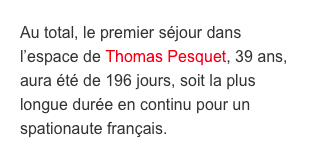
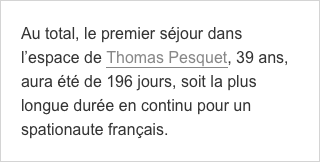
[COMP] Doc design : select, text field, link, radio button, pagination et margin

diff --git a/src/components/paginations/selects.vue b/src/components/paginations/selects.vue
@@ -1,0 +1,20 @@
+<template>
+  <selects class="su-selects" :class="[typeClass]">
+    <slot></slot>
+  </selects>
+</template>
+
+<script>
+export default {
+  props: {
+    typeClass: 'basic'
+  }
+};
+</script>
+
+<style>
+/**
+Import du SASS selects Sipa UI
+**/
+@import selects.scss
+</style>

diff --git a/src/components/paginations/main.scss b/src/components/paginations/main.scss
@@ -1,0 +1,6 @@
+/*
+    Styles du composant selects de SipaUI
+    Utilise les variables à la fois globales et du composant
+*/
+@import "variables";
+

diff --git a/src/components/paginations/_variables.scss b/src/components/paginations/_variables.scss
@@ -1,0 +1,5 @@
+/*
+    Variables liés au composant selects
+    ex:
+    $border-button-premium: 3px !default;
+*/

diff --git a/src/components/paginations/_theme-vv.scss b/src/components/paginations/_theme-vv.scss
@@ -1,0 +1,5 @@
+/*
+    Variables liés au theme Voiles et Voiliers
+    ex:
+    $border-button-premium: 0;
+*/

diff --git a/src/components/FORM_selects/doc-design.md b/src/components/FORM_selects/doc-design.md
@@ -5,54 +5,107 @@ Les selects permettent à l’utilisateur de sélectionner une option dans une l
 
 ## Usage
 
-Un select permet d’afficher un nombre illimité d'options dans une liste déroulante. L’utilisateur peut choisir une seule des options parmi cette liste.
-Il empêche les utilisateurs de saisir des données erronées et il permet d'économiser quelques frappes.
-On le trouve généralement dans un formulaire.
+- Un select permet d’afficher un nombre illimité d'options dans une liste déroulante. L’utilisateur peut choisir une seule des options parmi cette liste.
+- Il empêche les utilisateurs de saisir des données erronées et il permet d'économiser quelques frappes.
+- On le trouve généralement dans un formulaire.
+
+## États
+
+
+Type | Simple
+------------ | ------------- |
+**Enabled** | ![select__enabled](design/select__enabled.png)
+**With default value** |![select__with-default-value](design/select__with-default-value.png)
+**With placeholder** |![select__with-placeholder](design/select__with-placeholder.png)
+**Focus** |![select__focus](design/select__focus.png)
+**Error** |![select__error](design/select__error.png)
+**Disabled** |![select__disabled](design/select__disabled.png)
 
 ## Spécifications
 
-→ Un tableau, Type
+### Label
 
-Default
+- Le label est identique à celui du champ de texte.
+- Il n'est pas necessairement obligatoire.
 
-With default value
+### Container
 
-Focus
+- Le container est identique à celui du champ de texte.
 
-Scroll
+### Texte
 
-Error
-
-Disabled (ex : lors de l’inscription, choix ville qd pas encore de mot de passe) 40%
-
-
-## 2- États
-
-Type | Class | Declinaison 1 | Declinaison 2 | Remarque
------------- | ------------- | ------------- | ------------- | ------------- |
-**etat 1** | classes | exemple | exemple | description
-**etat 2** | classes | exemple | exemple | description
-**etat 3** | classes | exemple | exemple | description
+- Le texte présente les caractéristiques du champ de texte.
+- Une value peut être mise par défaut si elle est quasiment sûre d'être choisie.
+- Un placeholder peut être affiché, il permet de guider l’action de l’utilisateur.
 
 
-## 3- Spécifications
+<div class="do-dont">
+<div class="do">
 
-- specification 1
-- specification 2
-- specification 3
+![select__ex__default](design/select__ex__default.png) |
+------------ |
+**Do** <br/> Par exemple, "Choisissez" insite l'utilisateur à ouvrir le champ.
 
-### Gestion des erreurs
+ </div>
+ </div>
 
-- specification 1
-- specification 2
-- specification 3
+
+### Icône
+
+- L'icône comporte les caractéristiques du champ de texte.
+- La seule icône possible est un chevron. Il indique qu’une liste est disponible.
+
+
+### Liste
+
+- La liste permet de présenter différentes options.
+- Elle s'affiche de manière native selon chaque navigateur (hauteur, selection, scroll, etc).
+- Chaque élément est normé :
+  - La 1re lettre du texte est en majuscule, le reste est en minuscule.
+  - Le contenu se limite à un seule ligne.
+  - Il est justifié à gauche.
+  - L'ordre est établi de manière logique : dans un ordre croissant, selon la fréquence d'utilisation, etc.
+
+
+  <div class="do-dont">
+  <div class="do">
+
+  ![select__ex__focus-ios](design/select__ex__focus-ios.png) |
+  ------------ |
+  **Do** <br/> L'ordre alphabétique est souvent le plus approprié.
+
+   </div>
+   </div>
+
+
+- L'élément sélectionné remplace la value par défaut.
+
+### Inactif
+L'opacité d'un champ inactif est 40 %.
+
+## Gestion des erreurs
+
+- Les erreurs sont traitées comme celles du champ de texte.
+- Si le champ est obligatoire, il est défini comme ko lorsqu’aucun choix n’a été fait.
+
+
+  <div class="do-dont">
+  <div class="do">
+
+  ![select__ex__error](design/select__ex__error.png) |
+  ------------ |
+  **Do** <br/> Dans le cas d'un select obligatoire, le message d'erreur demande de renseigner le champ.
+
+   </div>
+   </div>
+
 
 
 ## 4- Bonnes pratiques
 
-- Si le nombre d’options est inférieure à 3, utiliser un bouton radio. définir le choix de l’un ou l’autre ???
-- Eviter les très longues listes nécessitant un scroll car elles empêchent les utilisateurs de voir tous leurs choix en un coup d'œil.
-- Pour une quantité, le choix d’une année, utiliser un text field standard plutôt qu’un select. La saisie est plus rapide. ?
+- Si le nombre d’options est inférieur ou égale à 3, utiliser un bouton radio.
+- Eviter les très longues listes nécessitant un scroll car les utilisateurs ne peuvent voir tous les choix en un coup d'œil.
+- Pour une quantité, le choix d’une année, utiliser un text field standard plutôt qu’un select car la saisie est plus rapide.
 - Suite à la saisie d’un code postal, ne pas utiliser un sélect pour une liste de ville (lié à la fusion des communes).
 - Il est fortement recommandé de ne pas styler les selects pour des raisons d'accessibilité.
 - Le select est pris en charge par un clavier.

diff --git a/src/components/paginations/doc-design.md b/src/components/paginations/doc-design.md
@@ -1,0 +1,70 @@
+# Paginations / Paginations
+
+La pagination aident les utilisateurs à naviguer dans de grandes quantités de données.
+
+## Usage
+
+- L'utilisateur navigue dans un grand nombre d'éléments répartis sur plusieurs pages.
+- Chaque page indique à l'utilisateur où il se trouve parmi une quantité de page.
+- Certaines pages ont un accès direct, par exemple la suivante.
+
+## Spécifications
+
+- Chaque page contient la même quantité d'éléments, à l'exception de la dernière page.
+- Les pages sont numérotées à l'aide d'éléments graphiques.
+
+### Élément graphique
+
+Type | Simple
+------------ | ------------- |
+**Current** | image
+**Enabled** | image
+**Focus** | image
+**Disabled** | image
+
+### La page courante
+
+- en plein #E2001A (La position en cours est mise en évidence par (couleur, épaisseur de trait ou un fort contraste.) ???
+
+### Enabled
+
+- Hauteur : 44px (30px actuellement) ???
+- Largeur : minimum 44px et padding 12px (30px actuellement) ???
+- Couleur : #333333 (iso bouton secondaire)???
+- Contour : angle 3px
+- Texte : 16px (14px actuellement), line-height ?, regular, police du thème
+
+### Hover / Focus / Pressed
+
+- Couleur : #B40015
+
+### Disabled
+
+- Opacité : 40 %
+
+## Bonnes pratiques
+
+- L'ensemble de la pagination indique au minimum (sauf pour la page courante) :
+  - la page suivante
+  - la page précédente
+- D'autres pages optimisent le référencement et leur accès (certaines pages peuvent être affichées via un select)
+    - la page courante
+    - 5 pages précédent la page courante (sauf en début de pagination)
+    - 5 pages suivant la page courante (sauf fin de pagination)
+    - toutes les dizaines, centaines et les milliers disponibles au delà de la 5ème page suivante
+    - la dernière page
+!!image!!illustration Pge 1 sur 508
+- L'espace entre 2 points de navigation est constant XXpx ???
+- La pagination est souvent centrée dans son parent.
+- Le nombre d'élément dans une page est défini en fonction de la taille de la page, l'élément et de leur temps de chargement.
+
+
+ <div class="do-dont">
+ <div class="dont">
+
+![Image_button_2 buttons_ko](design/Image_button_buttons_ko.png)  |
+------------ |
+**Don’t** <br/> Ne placez pas la pagination sur un fond de couleur similaire.
+
+ </div>
+ </div>

diff --git a/src/components/links/doc-design.md b/src/components/links/doc-design.md
@@ -13,8 +13,8 @@ Un «&nbsp;lien article&nbsp;» se trouve **parmi un bloc de texte** (article…
 
 Enabled | Hover / Focus / Pressed
 ------------ | ------------- |
-![article-link__enabled](design/article-link__enabled.png) | ![article-link__hover](design/article-link__hover.png)
-Hauteur du texte  <br> Largeur du texte <br> Couleur : #E2001A <br> Taille de caractère de son contexte  <br> Graisse de son contexte <br> Police du thème | - <br> - <br> Couleur : #B40015 <br> - <br> - <br> - <br> Texte : le lien est souligné en #B40015 <br>
+![article-link__enabled](design/article-link__enabled.png)| ![article-link__hover](design/article-link__hover.png)
+Hauteur du texte  <br> Largeur du texte <br> Couleur : #E878787 <br> Taille de caractère de son contexte  <br> Graisse de son contexte <br> Police du thème | - <br> - <br> Couleur : #B40015 <br> - <br> - <br> - <br> Texte : le lien est souligné en #B40015 <br>
 
 
 ### Lien bouton
@@ -67,16 +67,6 @@ Enabled | Hover / Focus / Pressed
 - Il est conseillé que le lien n’ait pas plus de 10 mots pour une meilleure performance.
 - Le texte du lien doit être similaire au titre de la page qu'il ouvre.
 - Ne pas mettre le même nom pour différents liens.
-
-<div class="do-dont">
-<div class="dont">
-
-![article-link__ex__link-default-underline](design/article-link__ex__link-default-underline.png) |
------------- |
-**Don’t** <br/> Ne pas mettre un texte en rouge souligné pour le mettre en évidence.
-
-</div>
-</div>
 
 #### Lien bouton
 - La 1re lettre du lien est en majuscule, le reste est en minuscule.

diff --git a/src/components/FORM_text-fields/doc-design.md b/src/components/FORM_text-fields/doc-design.md
@@ -8,13 +8,14 @@ Les champs de texte permettent à l'utilisateur de saisir et de modifier du text
 Type | Simple
 ------------ | ------------- |
 **Enabled** | ![textfield__default](design/textfield__default.png)
-**Focus** |![textfield__focus](design/textfield__focus.png)
 **With default value** |  ![textfield__with-default-value](design/textfield__with-default-value.png)
+**Focus** |![textfield__focus](design/textfield__focus.png)
 **Error** | ![textfield__error](design/textfield__error.png)
 **Disabled** | ![textfield__disabled](design/textfield__disabled.png)
 **With icon** | ![textfield__with-icon-right](design/textfield__with-icon-right.png)
 
 ## Spécifications
+
 #### Label
 - Un label indique le type d’information demandée sous celui-ci.
 - La 1re lettre est en majuscule, le reste est en minuscule.

diff --git a/src/components/margins/doc-design.md b/src/components/margins/doc-design.md
@@ -9,11 +9,13 @@ Les marges permettent le placement cohérent des éléments, des composants dans
 
 ## Types de Marges
 
-Type | Taille | Illustration
------------- | ------------- | ------------- |
-**Small** | Xpx ? | image
-**Medium** |  Xpx ? | image
-**Large** |  Xpx ? | image
+Taille | Mesure | Illustration
+------------ | ------------- | ------------- | ------------- | ------------- |
+**XS** | 5px | ![spacing__5px](design/spacing__5px.png)
+**S** | 10px | ![spacing__10px](design/spacing__10px.png)
+**M** | 20px | ![spacing__20px](design/spacing__20px.png)
+**L** | 30px | ![spacing__30px](design/spacing__30px.png)
+**XL** | 40px | ![spacing__40px](design/spacing__40px.png)
 
 ## Objectifs
 

diff --git a/src/components/paginations/doc-html.md b/src/components/paginations/doc-html.md
@@ -1,0 +1,26 @@
+# selects
+
+Description.
+
+
+<!-- STORY -->
+
+## Exemples
+
+- specification 1
+```html
+<selects class="su-selects basic">SipaUi selects</selects>
+```
+<selects class="su-selects basic">SipaUi selects</selects>
+
+- specification 2
+```html
+<selects class="su-selects basic">SipaUi selects</selects>
+```
+<selects class="su-selects basic">SipaUi selects</selects>
+
+- specification 3
+```html
+<selects class="su-selects basic">SipaUi selects</selects>
+```
+<selects class="su-selects basic">SipaUi selects</selects>

diff --git a/src/components/FORM_radio-buttons/doc-design.md b/src/components/FORM_radio-buttons/doc-design.md
@@ -42,7 +42,7 @@ Taille : 20x20px : 20px <br> Fond : #FAFAFA <br> Contour : épaisseur 2px, radiu
 
 ![button-radio__ex__dont-greater-than-3](design/button-radio__ex__dont-greater-than-3.png) |
   ------------ |
-  **Don't** <br/> Si le nombre d’option est strictement supérieur à 3, utilisez un autre composant, par exemple un select. |
+  **Don't** <br/> Si le nombre d’option est supérieur ou égal à 4, utilisez un autre composant, par exemple un select. |
 
    </div>
 </div>

diff --git a/src/components/paginations/doc-vuejs.md b/src/components/paginations/doc-vuejs.md
@@ -1,0 +1,11 @@
+# selects
+
+selects
+
+```js
+import selects from 'sipaui/components/selects';
+```
+
+<!-- STORY -->
+
+CF HTML
